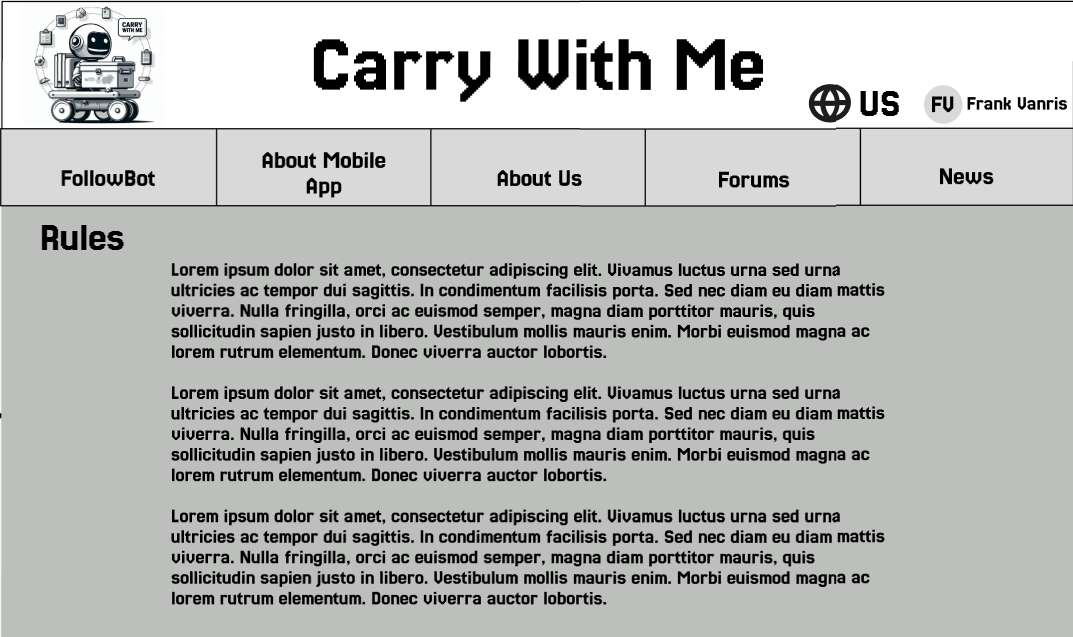
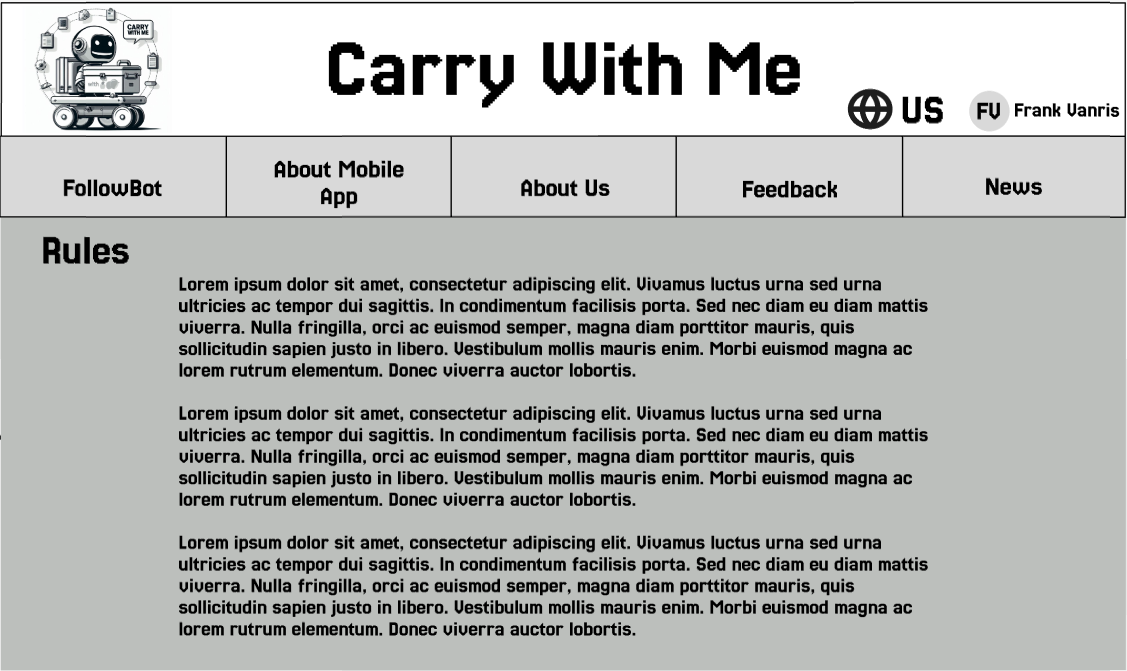
Changed designs of images
Made changes to the images of the website, removed a couple images and edited one main image.

diff --git a/Documentation/RequirementsSpecifications.md b/Documentation/RequirementsSpecifications.md
@@ -162,11 +162,10 @@ To support the machine learning model and enable seamless data flow between the 
 * When clicking on a news article you will be brought to another page where you can read the news.
 <br>
 
-![image](/Images/website/ForumsScreen.png)
+![image](/Images/website/FeedBackScreen.png)
 
-***Forums page***
-* When clicking on the Forums Tab you will see a lot of posts and categories of posts that you can click on to obtain answers to questions that you may have had.
-* The Forums page will also allow you to upvote or down-vote posts as well as reply to posts if you have an account.
+***Feedback page***
+* When you click on the Feedback page there will be a area where you can send feedback to the team of FollowBot. You can as well ask questions if needed.
 <br>
 
 ![image](/Images/website/LoginScreen.png)
@@ -221,7 +220,7 @@ To support the machine learning model and enable seamless data flow between the 
 * When you click on the Mapping button, you will be met with a screen of the Bellevue College campus. The Mapping System will locate FollowBot and See if it is directly in BC. If it is you will be allowed to map your FollowBot to any specific location on BC if safe to do so.
 <br>
 
-![image](/Images/website/MyAccountScreen.png)
+![image](/Images/website/MyAccountsScreen.png)
 
 ***My Account page***
 * When you click on the my account screen you will be met with a list of buttons you can click from, as well as see the FollowBots that are accessable through your account.
@@ -238,12 +237,6 @@ To support the machine learning model and enable seamless data flow between the 
 
 ***Live Feed page***
 * The Live Feed page will allow the user to see visually what FollowBot is seeing when going to a specific location.
-<br>
-
-![image](/Images/website/MyPostsScreen.png)
-
-***My Posts page***
-* This page will contain your posts and your replies that you have made to other peoples posts or yourself for clarifications.
 <br>
 
 ![image](/Images/website/SettingsScreen.png)
